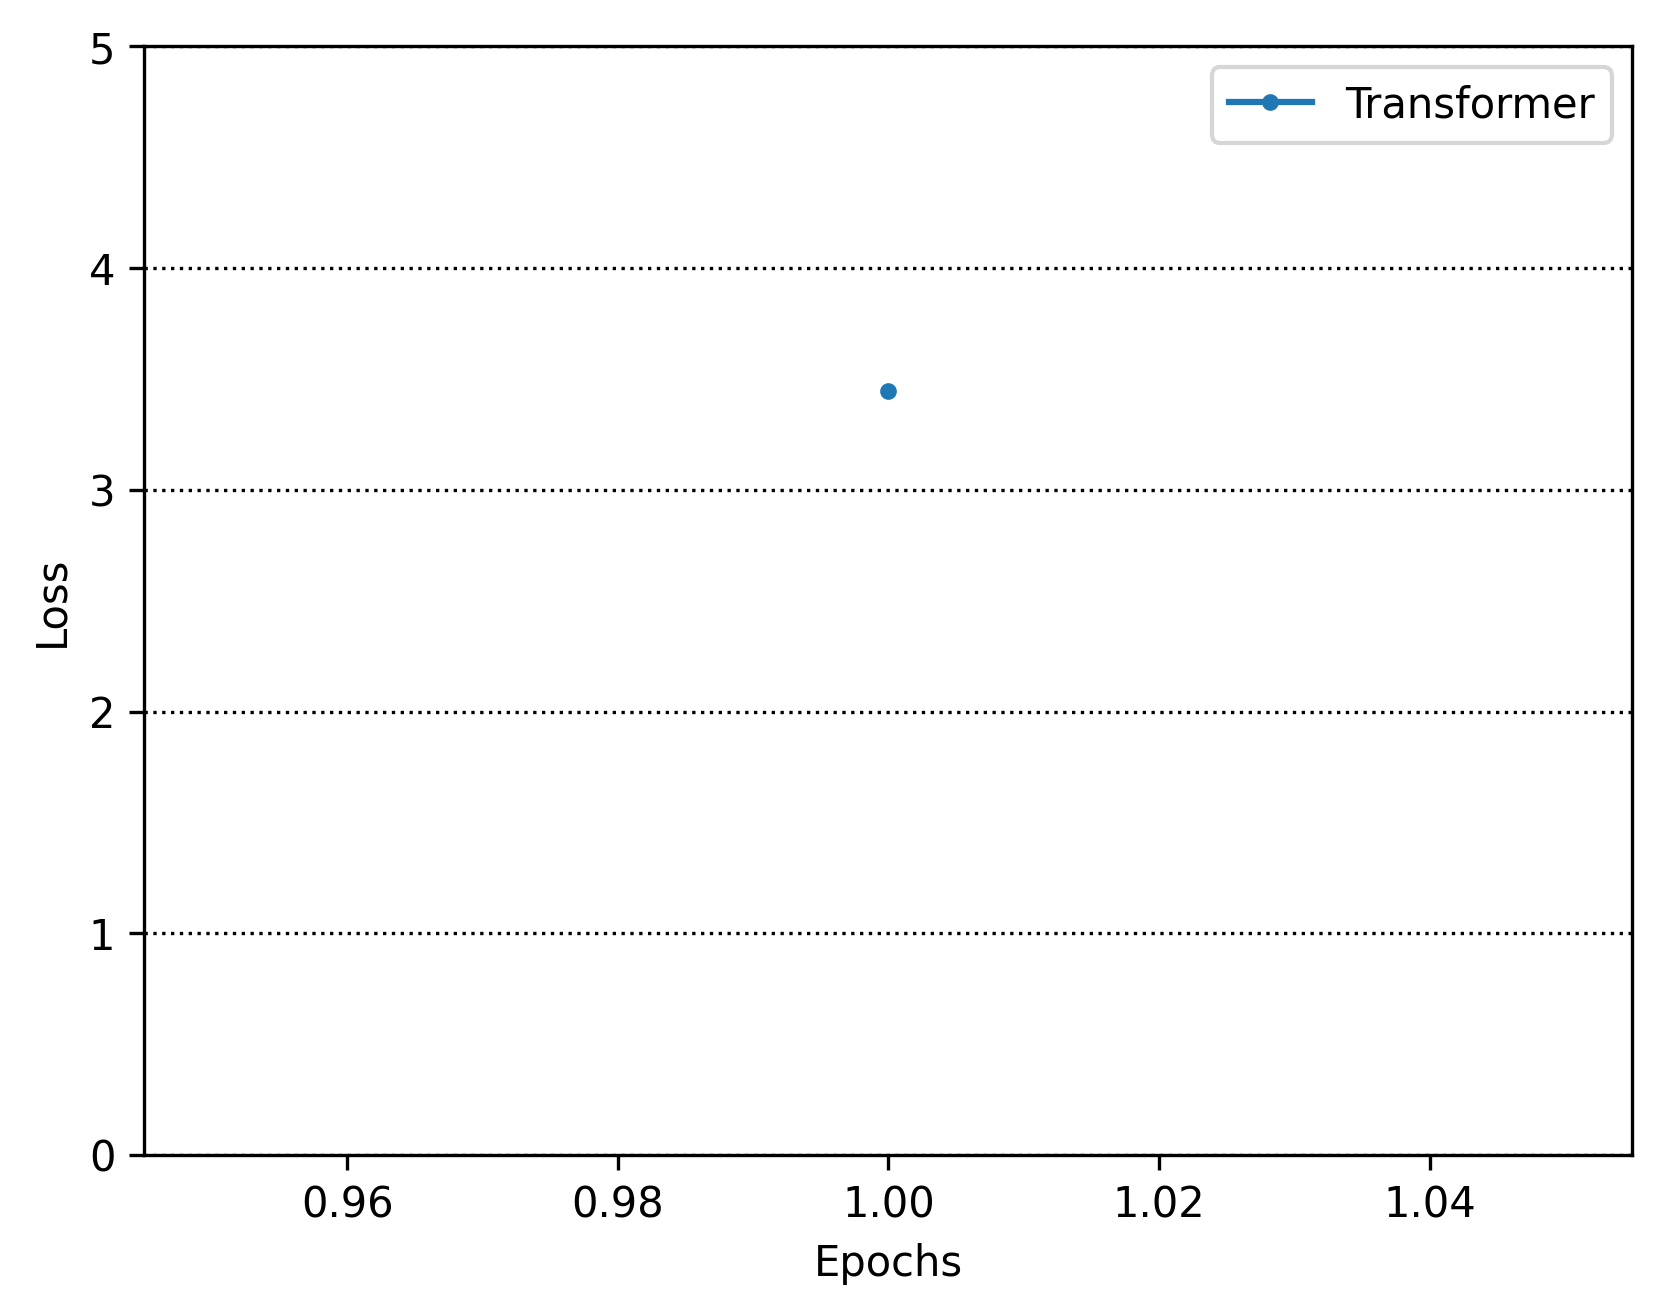
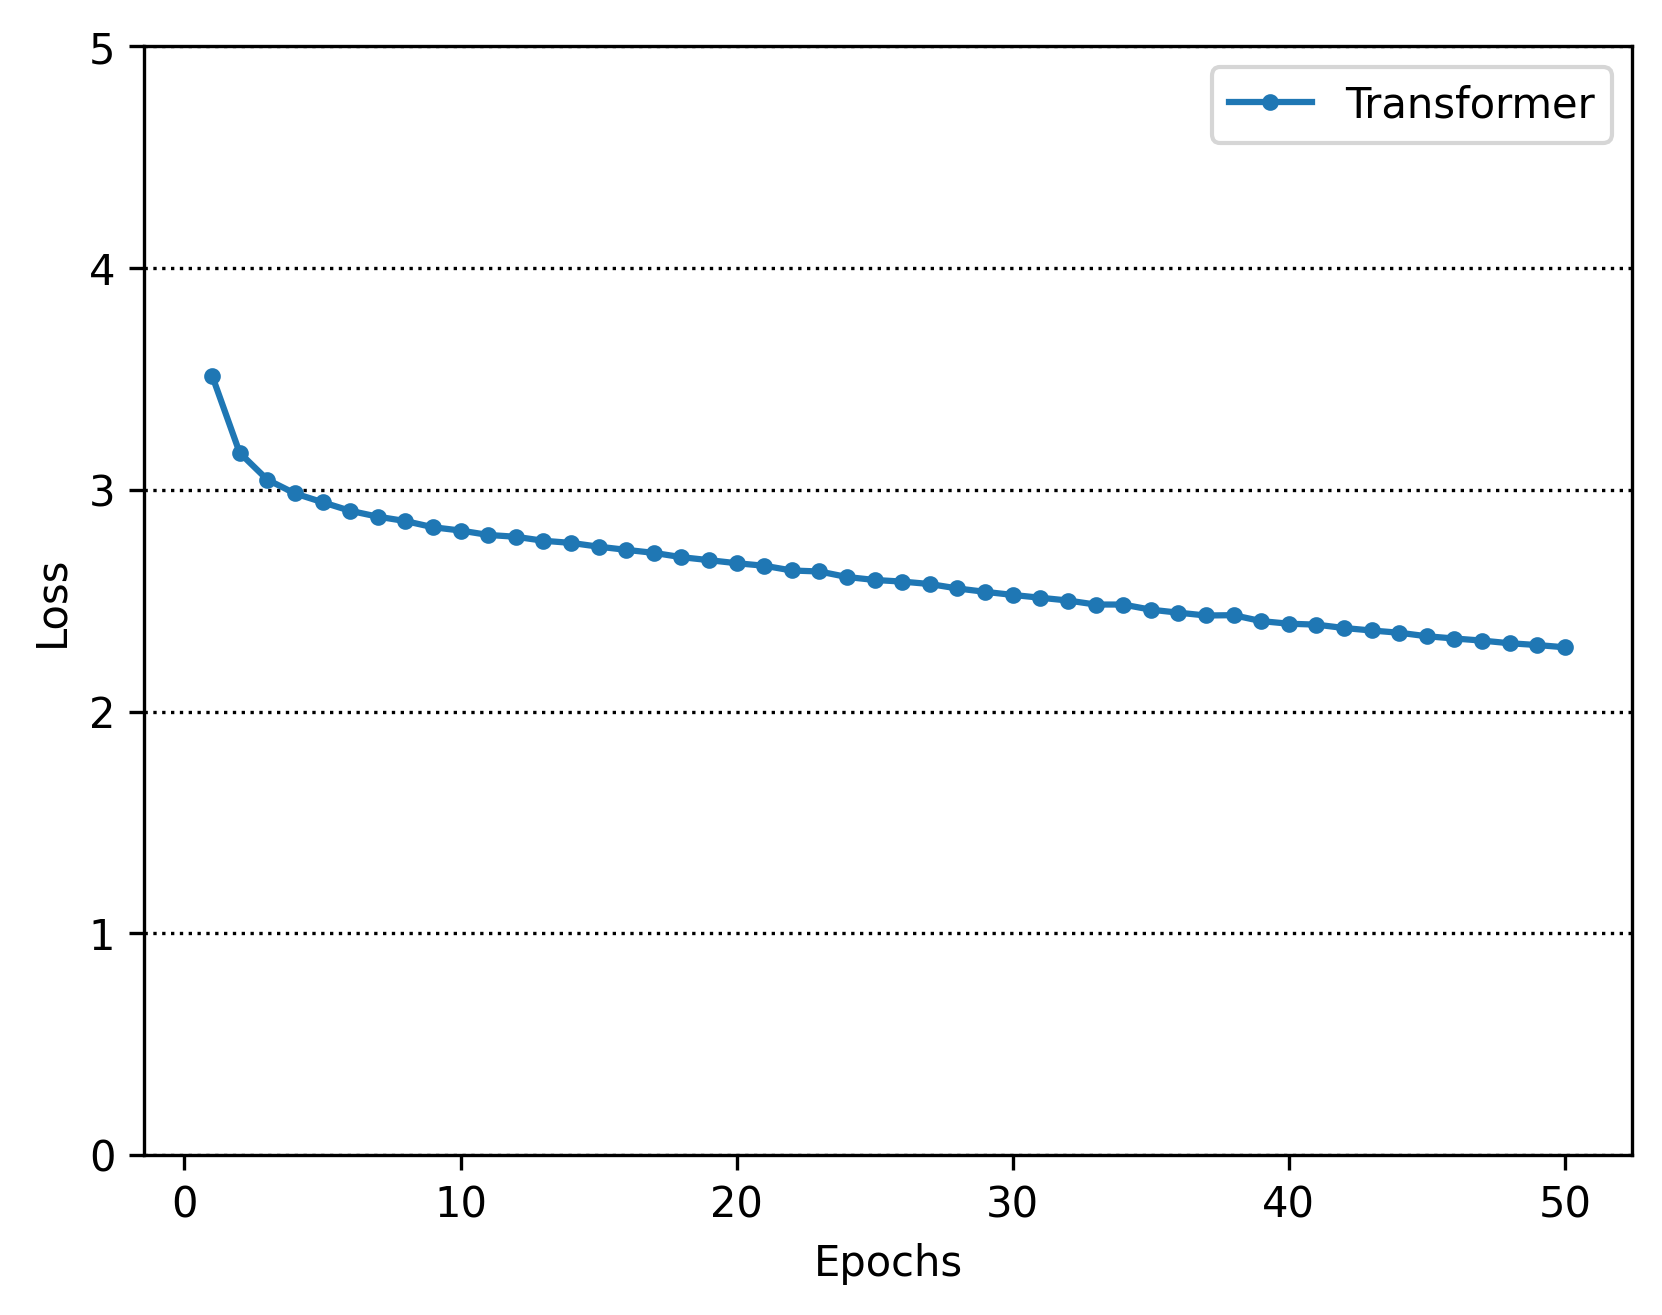
chore: Transformerを用いた連続手話認識のepochs=50のグラフの作成

diff --git a/ContinuousSignLanguage/transformer/continuous_sign_language_transformer/modeling/train.py b/ContinuousSignLanguage/transformer/continuous_sign_language_transformer/modeling/train.py
@@ -52,7 +52,7 @@ if __name__ == "__main__":
 
     label_smoothing = 0.1
     lr = 3e-4
-    epochs = 1
+    epochs = 50
     eval_every_n_epochs = 1
     max_seqlen = 60
     sos_token = key2token["<sos>"]

diff --git a/README.md b/README.md
@@ -71,5 +71,6 @@ disable：無効化（コメントアウト等）
 remove：削除（ファイル）
 upgrade：バージョンアップ
 revert：変更取り消し
+chore: それ以外
 </pre>
 2024年10月31日から
